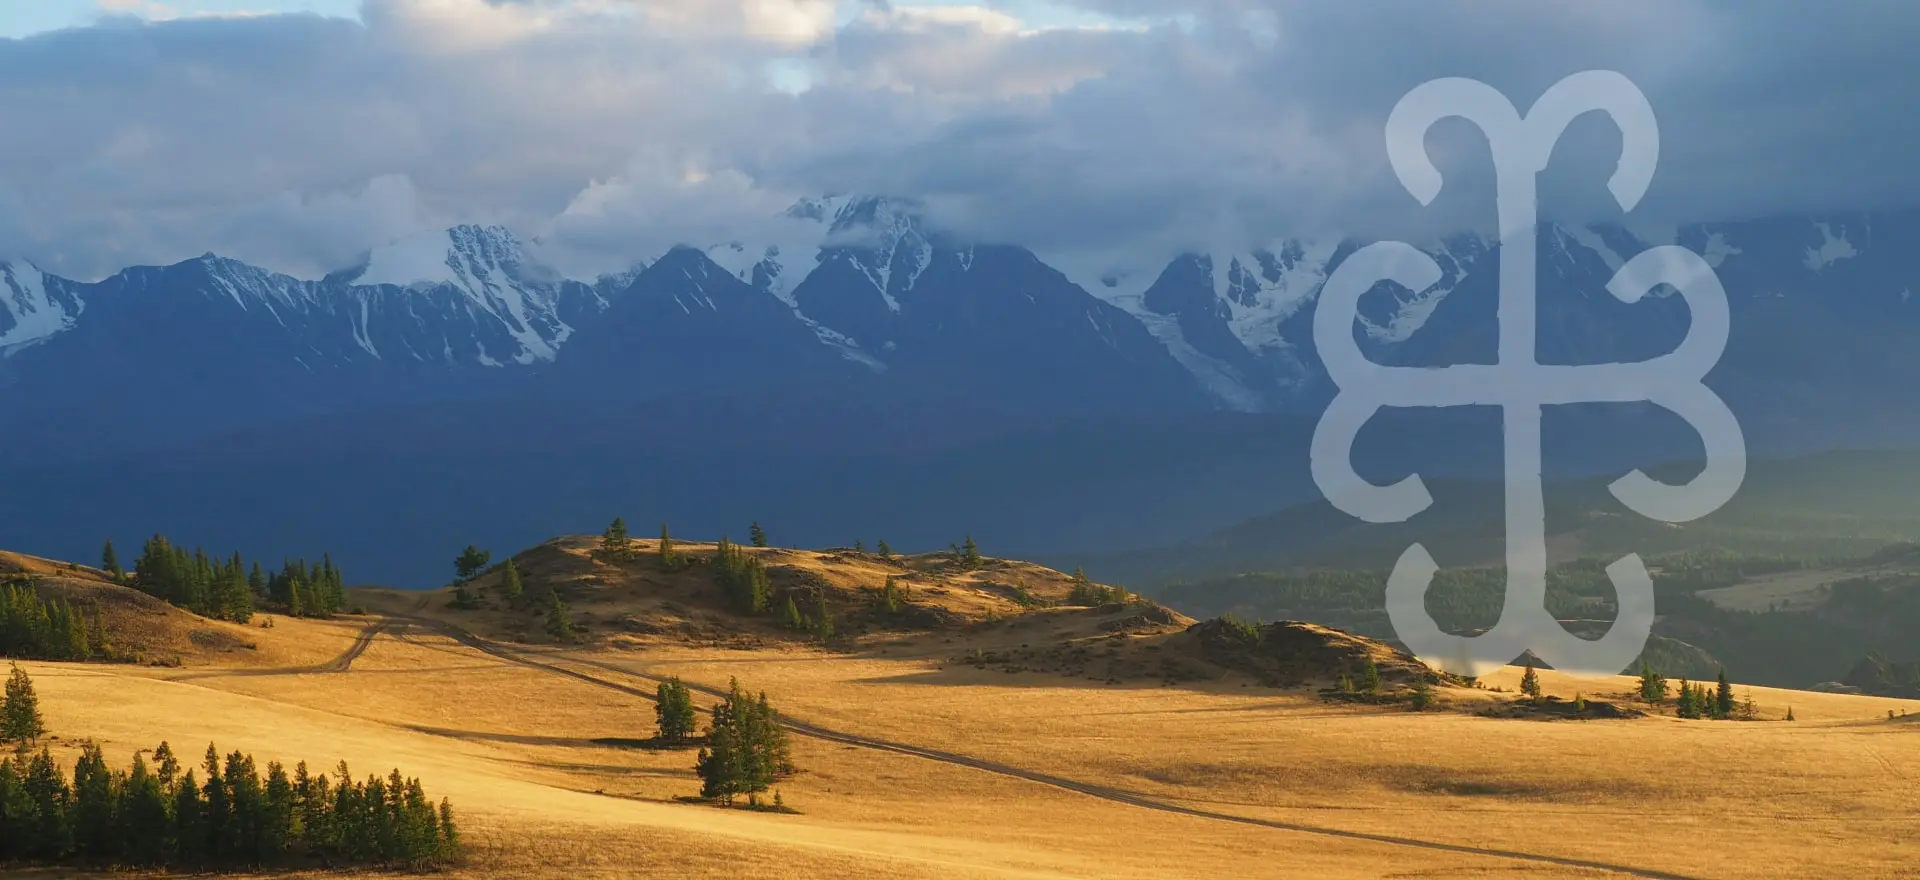
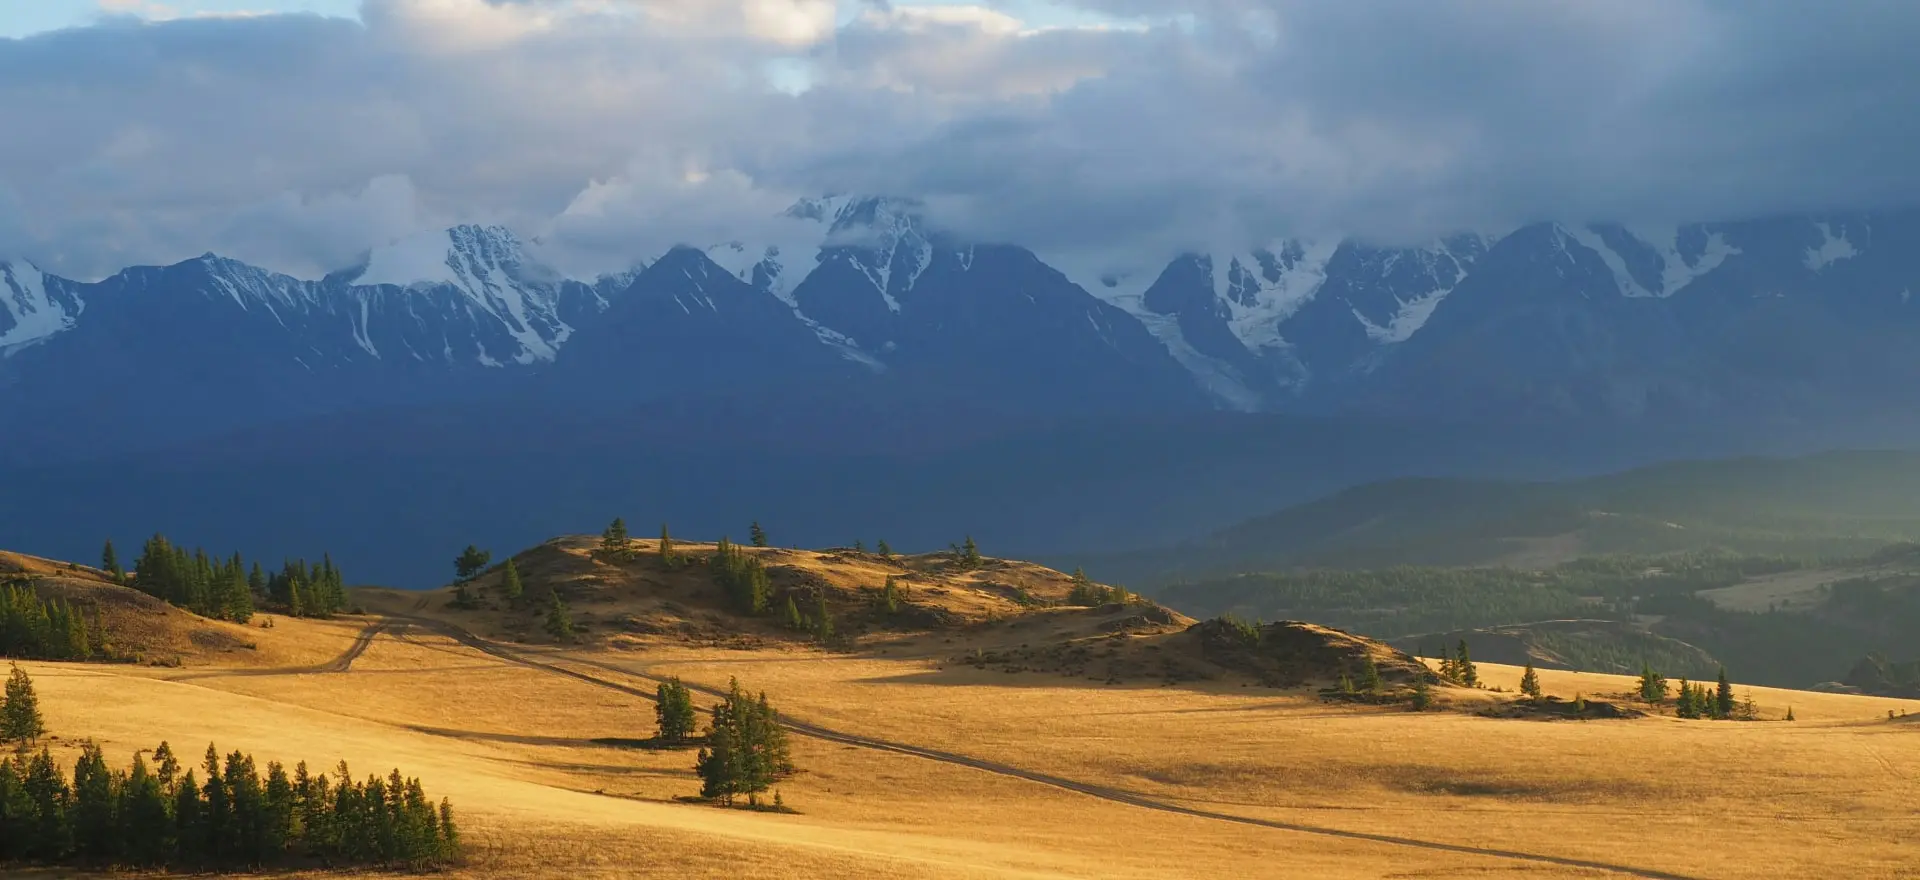
fix: fixed bg overflow

Changed region(s): [[0.6562, 0.0614, 0.9062, 0.767]]

diff --git a/css/index.css b/css/index.css
@@ -615,6 +615,7 @@ img {
 .first-screen {
   margin-top: 80px;
   background: url(../assets/first-screen-bg.webp) center/cover no-repeat;
+  overflow: hidden;
 }
 @media (max-width: 1440px) {
   .first-screen {
@@ -622,6 +623,7 @@ img {
   }
 }
 .first-screen__content {
+  position: relative;
   padding: 190px 0 0;
   height: 880px;
   box-sizing: border-box;
@@ -639,7 +641,47 @@ img {
     padding: 0;
   }
 }
+.first-screen__content::before {
+  content: "";
+  position: absolute;
+  top: 50%;
+  right: 0;
+  z-index: 1;
+  display: block;
+  width: 436px;
+  aspect-ratio: 436/610;
+  background: url(../assets/ornament.svg) center/cover no-repeat;
+  transform: translateY(-65%);
+}
+@media (max-width: 1440px) {
+  .first-screen__content::before {
+    width: 360px;
+  }
+}
+@media (max-width: 1200px) {
+  .first-screen__content::before {
+    width: 300px;
+  }
+}
+@media (max-width: 1024px) {
+  .first-screen__content::before {
+    width: 270px;
+  }
+}
+@media (max-width: 768px) {
+  .first-screen__content::before {
+    width: 220px;
+  }
+}
+@media (max-width: 576px) {
+  .first-screen__content::before {
+    right: -10px;
+    width: 140px;
+  }
+}
 .first-screen__title {
+  position: relative;
+  z-index: 2;
   max-width: 1140px;
   color: #ffffff;
 }
@@ -1165,7 +1207,8 @@ img {
 
 .news {
   margin: 0 0 147px;
-  background: url(../assets/news-bg.svg) top center/100% no-repeat;
+  background: url(../assets/news-bg.svg) top center no-repeat;
+  background-size: auto 100%;
 }
 @media (max-width: 1024px) {
   .news {

diff --git a/scss/_l-first-screen.scss b/scss/_l-first-screen.scss
@@ -1,12 +1,14 @@
 .first-screen {
   margin-top: 80px;
   background: url(../assets/first-screen-bg.webp) center / cover no-repeat;
+  overflow: hidden;
 
   @include desktop {
     background-position: center right -400px;
   }
 
   &__content {
+    position: relative;
     padding: 190px 0 0;
     height: 880px;
     box-sizing: border-box;
@@ -21,9 +23,46 @@
       max-height: calc(100dvh - 80px);
       padding: 0;
     }
+
+    &::before {
+      content: '';
+      position: absolute;
+      top: 50%;
+      right: 0;
+      z-index: 1;
+      display: block;
+      width: 436px;
+      aspect-ratio: 436 / 610;
+      background: url(../assets/ornament.svg) center / cover no-repeat;
+      transform: translateY(-65%);
+
+      @include desktop {
+        width: 360px;
+      }
+
+      @include desktopmd {
+        width: 300px;
+      }
+
+      @include laptop {
+        width: 270px;
+        
+      }
+
+      @include tablet {
+        width: 220px;
+      }
+
+      @include mobile {
+        right: -10px;
+        width: 140px;
+      }
+    }
   }
 
   &__title {
+    position: relative;
+    z-index: 2;
     max-width: 1140px;
     color: #ffffff;
   }

diff --git a/scss/_l-news.scss b/scss/_l-news.scss
@@ -1,6 +1,7 @@
 .news {
   margin: 0 0 147px;
-  background: url(../assets/news-bg.svg) top center / 100% no-repeat;
+  background: url(../assets/news-bg.svg) top center no-repeat;
+  background-size: auto 100%;
 
   @include laptop {
     margin: 0 0 80px;
